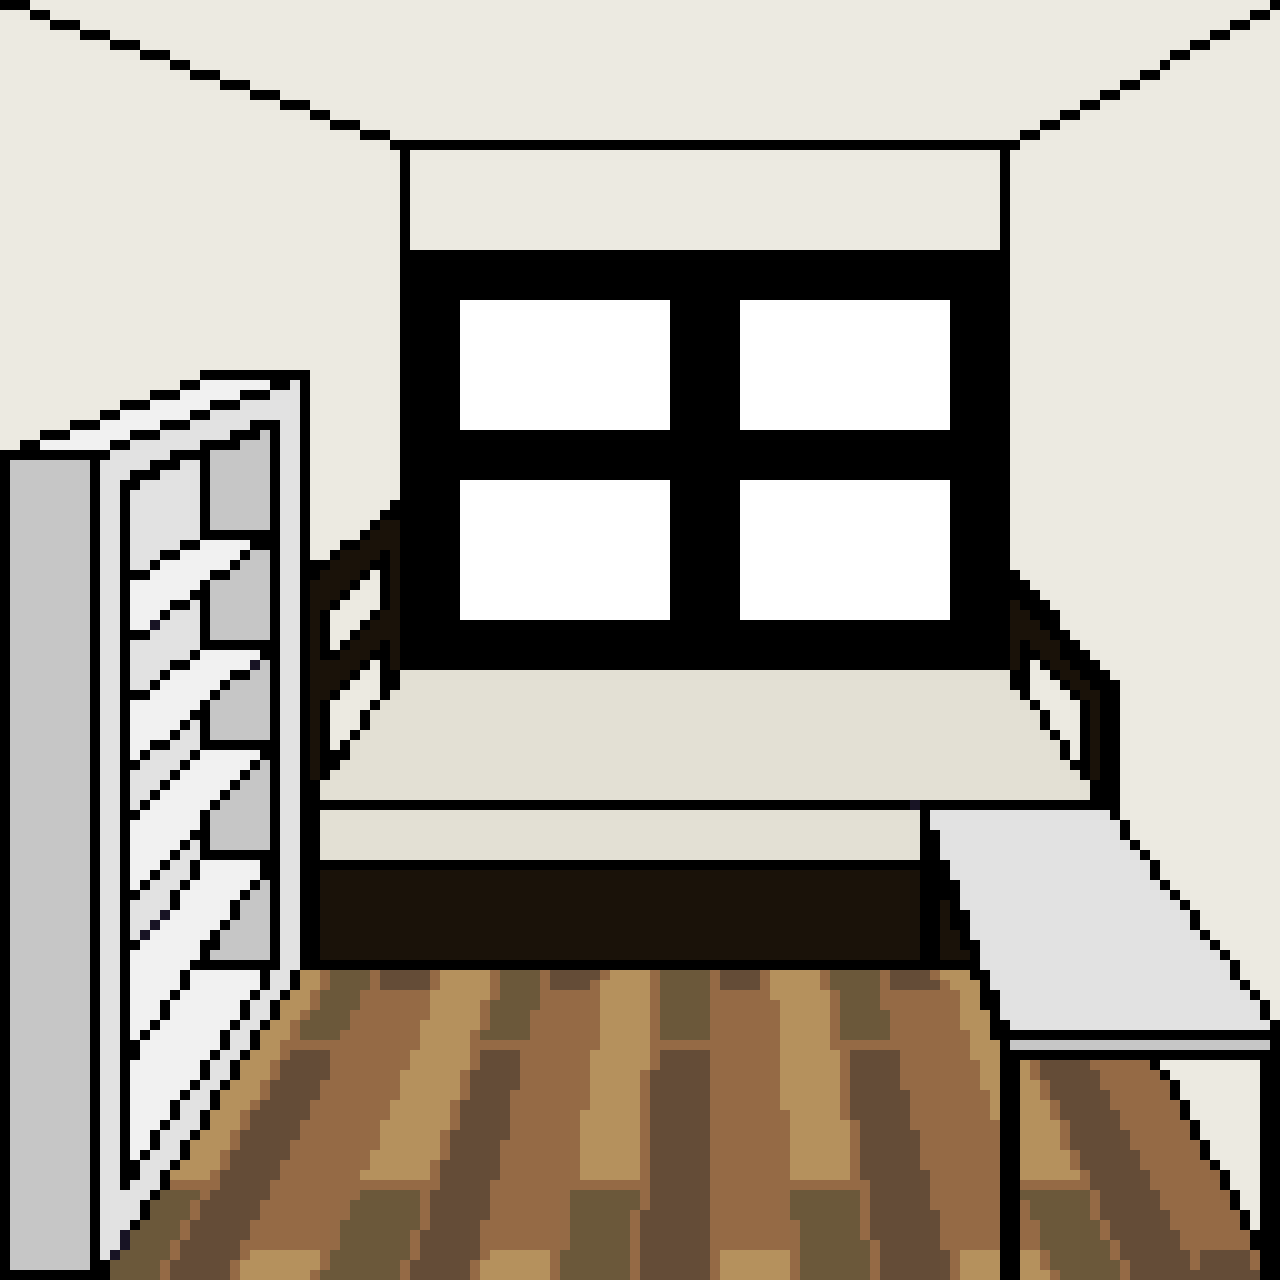
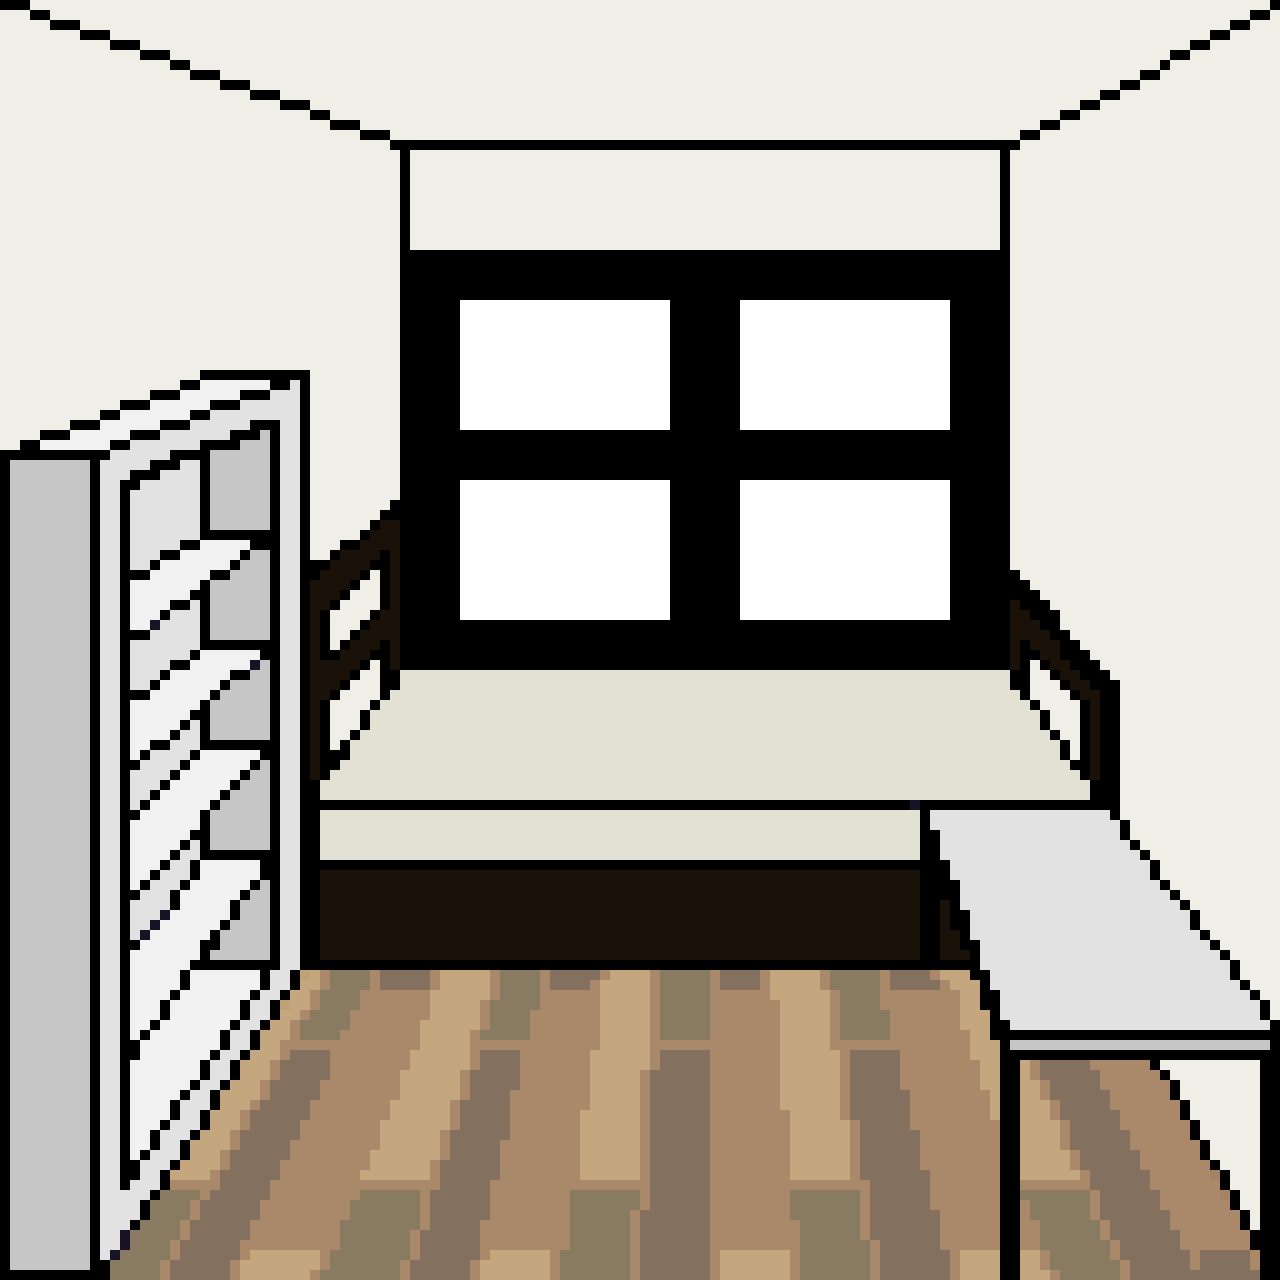
//laptop and file organization

Changed region(s): [[0.0625, 0.75, 1.0, 1.0]]

diff --git a/index.html b/index.html
@@ -12,8 +12,20 @@
     <div class="skybox"></div>
     <img src="src/bedroom.png" id="bedroom" alt="bedroom" />
 
+    <!-- objects -->
     <img src="src/deskchair.png" id="deskchair" alt="deskchair" />
     <!-- <img src="src/desk.png" id="desk" alt="desk" /> -->
+    <img src="src/laptop.png" id="laptop" alt="laptop" />
+
+<!-- laptop screen -->
+    <div id="laptop-screen" class="hidden">
+        
+      <img src="src/desktop.png" id="desktop" alt="desktop" />
+      <a href="https://tutorial.sofiasweb.art" target="_blank"><img src="src/tutorial.png" id="tutorial" alt="star"/></a>
+      <a href="https://webdance.sofiasweb.art" target="_blank"><img src="src/webdance.png" id="webdance" alt="camera" /></a>
+    
+    </div>
+
 
     <!-- journal image -->
     <img src="src/journal.png" alt="Journal" id="journal" class="clickable-journal" />
@@ -41,8 +53,9 @@
       </div>
       
 
-  <script src="journal.js"></script>
-  <script src="time.js"></script>
+  <script src="js/journal.js"></script>
+  <script src="js/time.js"></script>
+  <script src="js/laptop.js"></script>
 </body>
 </html>
 

diff --git a/style.css b/style.css
@@ -69,8 +69,6 @@ body {
     cursor: pointer;
     transform: scale(1.05);
   }
-
-
 #journal{
     position: fixed;
     bottom: 17%;
@@ -119,12 +117,27 @@ body {
     height: auto;
     z-index: 11;
   }
-  #tutorial{
+  #tutorial {
     position: fixed;
-    width: 55%;
+    top: 38%;
+    left: 48%;
+    transform: translate(-50%, -50%);
+    width: 4%;
     height: auto;
-    z-index: 13;
+    z-index: 12;
   }
+  #webdance{
+    position: fixed;
+    top: 38%;
+    left: 54%;
+    transform: translate(-50%, -50%);
+    width: 3%;
+    height: auto;
+    z-index: 12;
+  }
+  /* #webdance:hover, #tutorial:hover {
+    cursor: pointer;
+  } */
 
 .clickable-journal {
     /* width: 100px; */
@@ -168,7 +181,7 @@ body {
 
   /* clock */
   .controls {
-    position: absolute;
+    position: fixed;
     top: 13vh;
     right: 43.5vw;
     z-index: 10;

diff --git a/js/laptop.js b/js/laptop.js
@@ -1,0 +1,21 @@
+window.addEventListener('DOMContentLoaded', () => {
+  const laptop = document.getElementById('laptop');
+  const desktop = document.getElementById('laptop-screen');
+
+  laptop.addEventListener('click', (e) => {
+    e.stopPropagation();
+    desktop.classList.remove('hidden');
+    laptop.classList.add('hidden');
+  });
+
+  document.addEventListener('click', function (e) {
+    if (
+      !desktop.classList.contains('hidden') && 
+      e.target !== laptop &&
+      e.target !== desktop
+    ) {
+      desktop.classList.add('hidden');
+      laptop.classList.remove('hidden');
+    }
+  });
+});

diff --git a/js/time.js b/js/time.js
@@ -4,7 +4,7 @@ const DAY = {
   };
   
   const NIGHT = {
-    top: [10, 10, 54],       
+    top: [8, 8, 46],       
     bottom: [0, 0, 50]
   };
   
